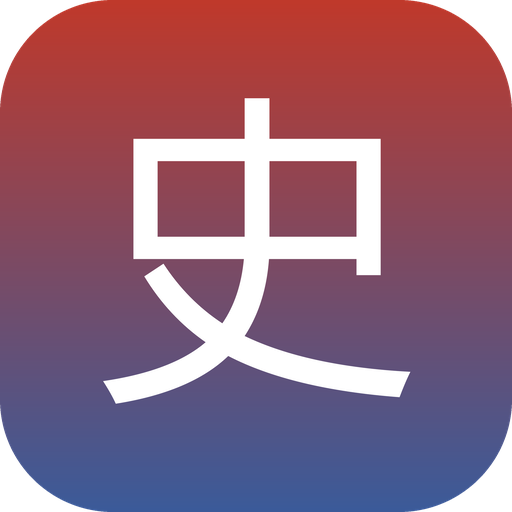
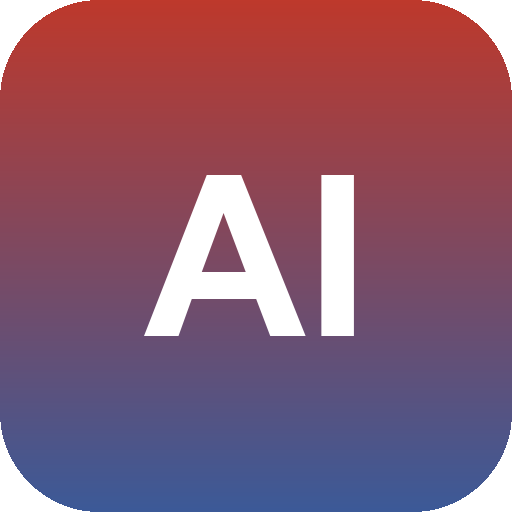
feat: 应用图标由「史」改为「AI」（同款红蓝渐变），exe 增加 .ico 图标
- scripts/make_icon.py 生成全套：icon-512/192、apple-touch、favicon-32、assets/app.ico
- build_portable.py 加 --icon，exe 文件本身不再是 PyInstaller 默认图标
- sw.js 缓存版本 v1→v2，PWA 用户能看到新图标

diff --git a/frontend/public/sw.js b/frontend/public/sw.js
@@ -1,6 +1,6 @@
 /* 极简 Service Worker：只缓存带内容哈希的静态资源（不可变），API 与 HTML 一律走网络。
    这样「添加到主屏幕」在安卓上可用，又不会把升级后的新版本缓存成旧版。 */
-const CACHE = 'ss-static-v1';
+const CACHE = 'ss-static-v2';
 
 self.addEventListener('install', () => self.skipWaiting());
 self.addEventListener('activate', (e) => e.waitUntil(self.clients.claim()));

diff --git a/scripts/make_icon.py b/scripts/make_icon.py
@@ -1,0 +1,66 @@
+# -*- coding: utf-8 -*-
+"""重新生成应用图标：白字改为「AI」，其余风格（红蓝渐变圆角方块）与原图一致。
+
+产出：
+  frontend/public/icon-512.png / icon-192.png / apple-touch-icon.png / favicon-32.png
+  assets/app.ico（PyInstaller --icon 用，含 16~256 多尺寸）
+"""
+from pathlib import Path
+
+from PIL import Image, ImageDraw, ImageFont
+
+ROOT = Path(__file__).resolve().parent.parent
+PUBLIC = ROOT / "frontend" / "public"
+ASSETS = ROOT / "assets"
+
+# 从旧图标采样渐变端色，保持品牌色不变
+old = Image.open(PUBLIC / "icon-512.png").convert("RGBA")
+top = old.getpixel((256, 6))[:3]
+bottom = old.getpixel((256, 506))[:3]
+print("渐变采样:", top, "->", bottom)
+
+FONT = r"C:\Windows\Fonts\arialbd.ttf"
+
+
+def make(size: int) -> Image.Image:
+    img = Image.new("RGBA", (size, size), (0, 0, 0, 0))
+    # 垂直渐变
+    px = img.load()
+    for y in range(size):
+        t = y / (size - 1)
+        r = int(top[0] + (bottom[0] - top[0]) * t)
+        g = int(top[1] + (bottom[1] - top[1]) * t)
+        b = int(top[2] + (bottom[2] - top[2]) * t)
+        for x in range(size):
+            px[x, y] = (r, g, b, 255)
+    # 圆角裁切（圆角比例与原图一致：约 100/512）
+    mask = Image.new("L", (size, size), 0)
+    ImageDraw.Draw(mask).rounded_rectangle(
+        [0, 0, size - 1, size - 1], radius=int(size * 0.195), fill=255
+    )
+    img.putalpha(mask)
+    # 「AI」白字居中
+    d = ImageDraw.Draw(img)
+    fsize = int(size * 0.44)
+    font = ImageFont.truetype(FONT, fsize)
+    text = "AI"
+    l, t_, r_, b_ = d.textbbox((0, 0), text, font=font)
+    w, h = r_ - l, b_ - t_
+    d.text(((size - w) / 2 - l, (size - h) / 2 - t_), text, font=font, fill=(255, 255, 255, 255))
+    return img
+
+
+for name, s in [
+    ("icon-512.png", 512),
+    ("icon-192.png", 192),
+    ("apple-touch-icon.png", 180),
+    ("favicon-32.png", 32),
+]:
+    make(s).save(PUBLIC / name)
+    print("written", PUBLIC / name)
+
+# 多尺寸 ico
+ASSETS.mkdir(exist_ok=True)
+base = make(256)
+base.save(ASSETS / "app.ico", sizes=[(16, 16), (24, 24), (32, 32), (48, 48), (64, 64), (128, 128), (256, 256)])
+print("written", ASSETS / "app.ico")

diff --git a/scripts/build_portable.py b/scripts/build_portable.py
@@ -238,6 +238,8 @@ def build_exe() -> None:
         *([] if noclean else ["--clean"]),
         "--onefile",
         "--console",
+        "--icon",
+        str(ROOT / "assets" / "app.ico"),
         "--name",
         EXE_NAME,
         "--distpath",
